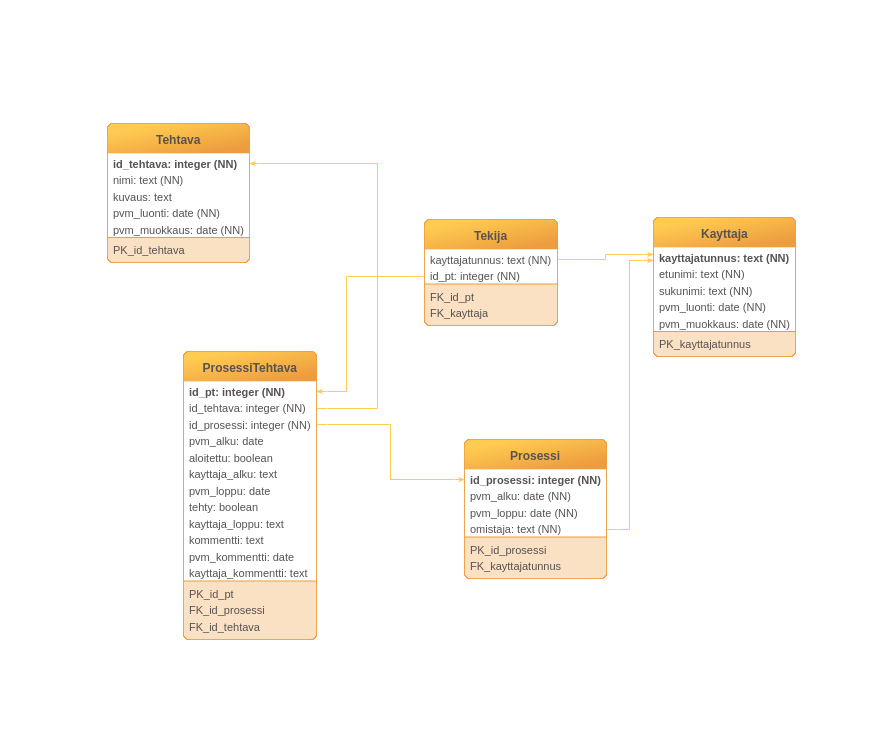
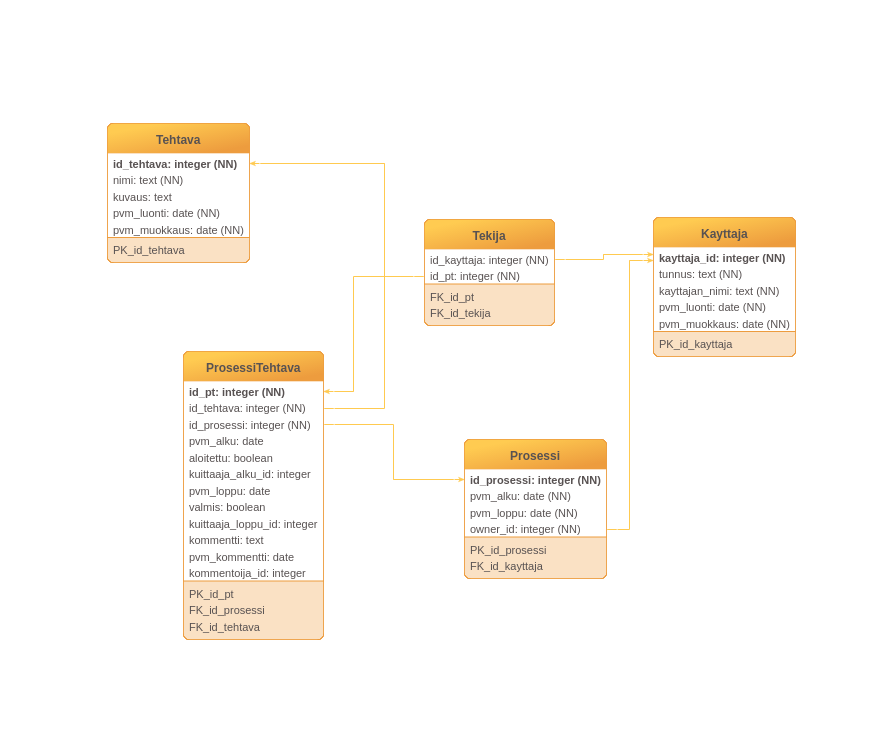
Tietokantakaavio ja käyttäjätarinat päivitetty

diff --git a/application/templates/prosessi/list.html b/application/templates/prosessi/list.html
@@ -10,10 +10,10 @@
       <th>Loppupäivä</th>
       <th></th>
     </tr>
-    {% for omistaja, prosessi in prosessit.items() %}
+    {% for prosessi in prosessit. %}
     <tr>
       <td>{{ prosessi.prosessin_nimi }}</td>
-      <td>{{ omistaja }}</td>
+      <td>{{ prosessit[prosessi] }}</td>
       <td>{{ prosessi.pvm_luonti.date() }}</td>
       <td>{{ prosessi.pvm_alku.date() }}</td>
       <td>{{ prosessi.pvm_loppu.date()}}</td>
@@ -27,7 +27,7 @@
   </table>
 
   <p></p>
-  <form method="GET" action="{{ url_fot('prosessi_lisays_lomake') }}">
+  <form method="GET" action="{{ url_for('prosessi_lisays_lomake') }}">
     <input type="submit" value="Lisää prosessi"/>
   </form>
 {% endblock %}

diff --git a/application/prosessi/views.py b/application/prosessi/views.py
@@ -14,6 +14,7 @@ def prosessi_lista():
 
     #To do: Yhdistä prosessit käyttäjiin, jotta saat omistajan nimen id:n sijasta
     #Muodostetaan dictionary, jossa prosessit ja niiden tekijät
+    #Korjaa tämä, pitää olla pt-id keyna ja siihen liittyen lista, jossa jäseninä omistaja ja prosessi
     plista = Prosessi.query.all()
     prosessit = {}
 

diff --git a/documentation/userstoryt.md b/documentation/userstoryt.md
@@ -41,25 +41,51 @@ Hyväksymiskriteerit:
 * Tallennettaessa luonti- ja muokkauspäiväksi tulee tallennushetki
 
 
+### Käyttäjän tietojen muokkaus
+
+Käyttäjä muokkaa muiden käyttäjien ja omia tietojaan, koska tiedot ovat muuttuneet tai salasana unohtunut
+
+Hyväksymiskriteerit:
+* Käyttäjä voi valita oman tai muun käyttäjän tiedot muokattavaksi
+* Sovellus antaa käyttäjän senhetkiset tiedot lomakkeella
+* Käyttäjän nimeä ja salasanaa voi muokata 
+
+
 ### Työprosessin lisääminen
 
 Käyttäjä lisää uuden työprosessin
 
 Hyväksymiskriteerit:
 * Päävalikosta pääsee työprosessin lisäyssivulle
-* Prosessille määritellään nimi, alkupäivä, loppupäivä ja omistaja käyttäjistä
-* Prosessiin lisätään prosessikohtaisia tehtäviä tehtävälistauksesta
+* Prosessille määritellään nimi, alkupäivä, loppupäivä ja omistajaksi prosessin lisääjä
+
+
+### Työprosessin ja siihen liittyvien tehtävien listaus
+
+Käyttäjä pääsee tarkastelemaan prosessin ja siihen liitettyjen tehtävien tietoja
+
+Hyväksymiskriteerit:
+* Käyttäjä valitsee listalta olemassa olevan prosessin, jonka tiedot tulevat näytölle
+* Näytetään sekä prosessin tiedot että siihen liitetyt tehtävät listauksena
+
+
+### Tehtävien lisääminen työprosessiin
+
+Käyttäjä voi lisätä valitsemaansa työprosessiin tehtäviä
+
+Hyväksymiskriteerit:
+* Prosessinseurantanäytöllä on painike, josta lisätään uusi tehtävä
+* Tehtävälistan jatkeeksi tulee uusi rivi, josta valitaan tehtävätyyppi, alkamisaika ja päättymisaika
+* Tiedot tallennetaan osaksi prosessin tehtäviä
 * Prosessikohtaisille tehtäville määritellään tekijät
-* Prosessi tallennetaan 
 
 
 ### Työprosessin tehtävien päivittäminen
 
-Käyttäjät voivat päivittää työprosessin tehtäviä aloitetuiksi ja tehdyiksi
+Käyttäjät voivat päivittää työprosessin tehtäviä aloitetuiksi ja tehdyiksi, lisätä niihin kommentija muokata alku- ja loppupäiviä
 
 Hyväksymiskriteerit:
-* Käyttäjä valitsee haluamansa työprosessin prosessien listauksesta 
-* Käyttäjä näkee valitsemansa prosessin tiedot
+* Käyttäjä voi muokata tehtävän tietoja tehtävälistauksessa
 * Käyttäjä voi päivittää tehtävän aloitetuksi (jos aloittamatta) ja tehdyksi (jos aloitettu)
 ** Sovellus päivittää aloitus- ja valmistumisajat vastaavasti
 ** Samalla päivitetään myös kuittaus tehtävän aloittaneesta/lopettaneesta käyttäjästä
